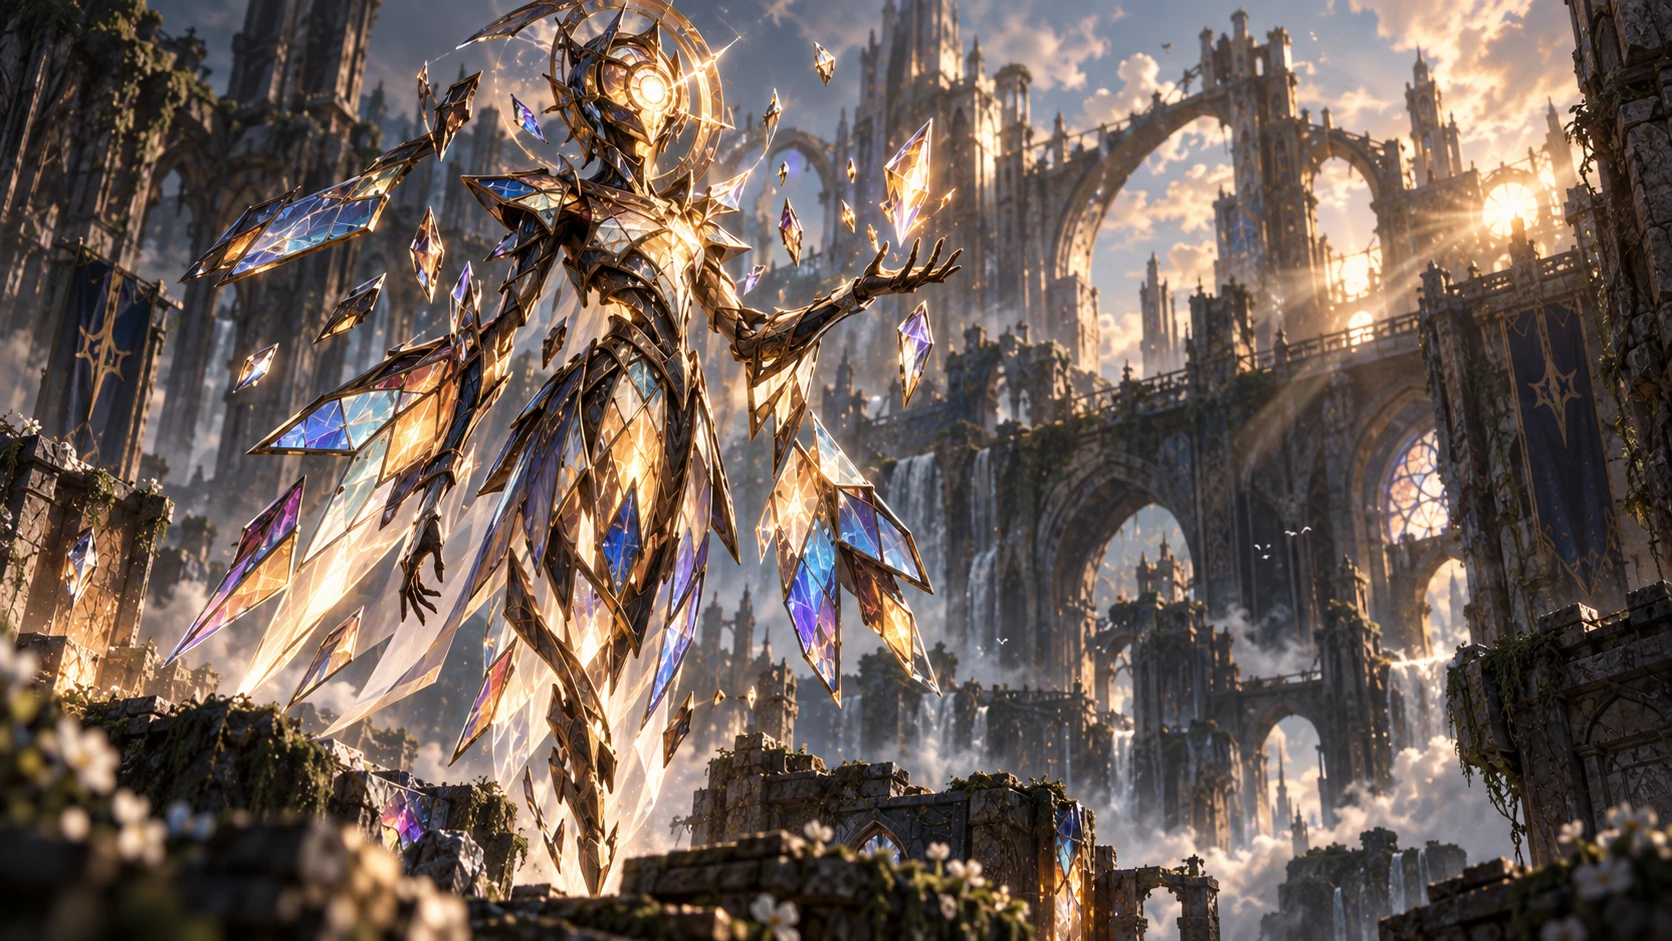
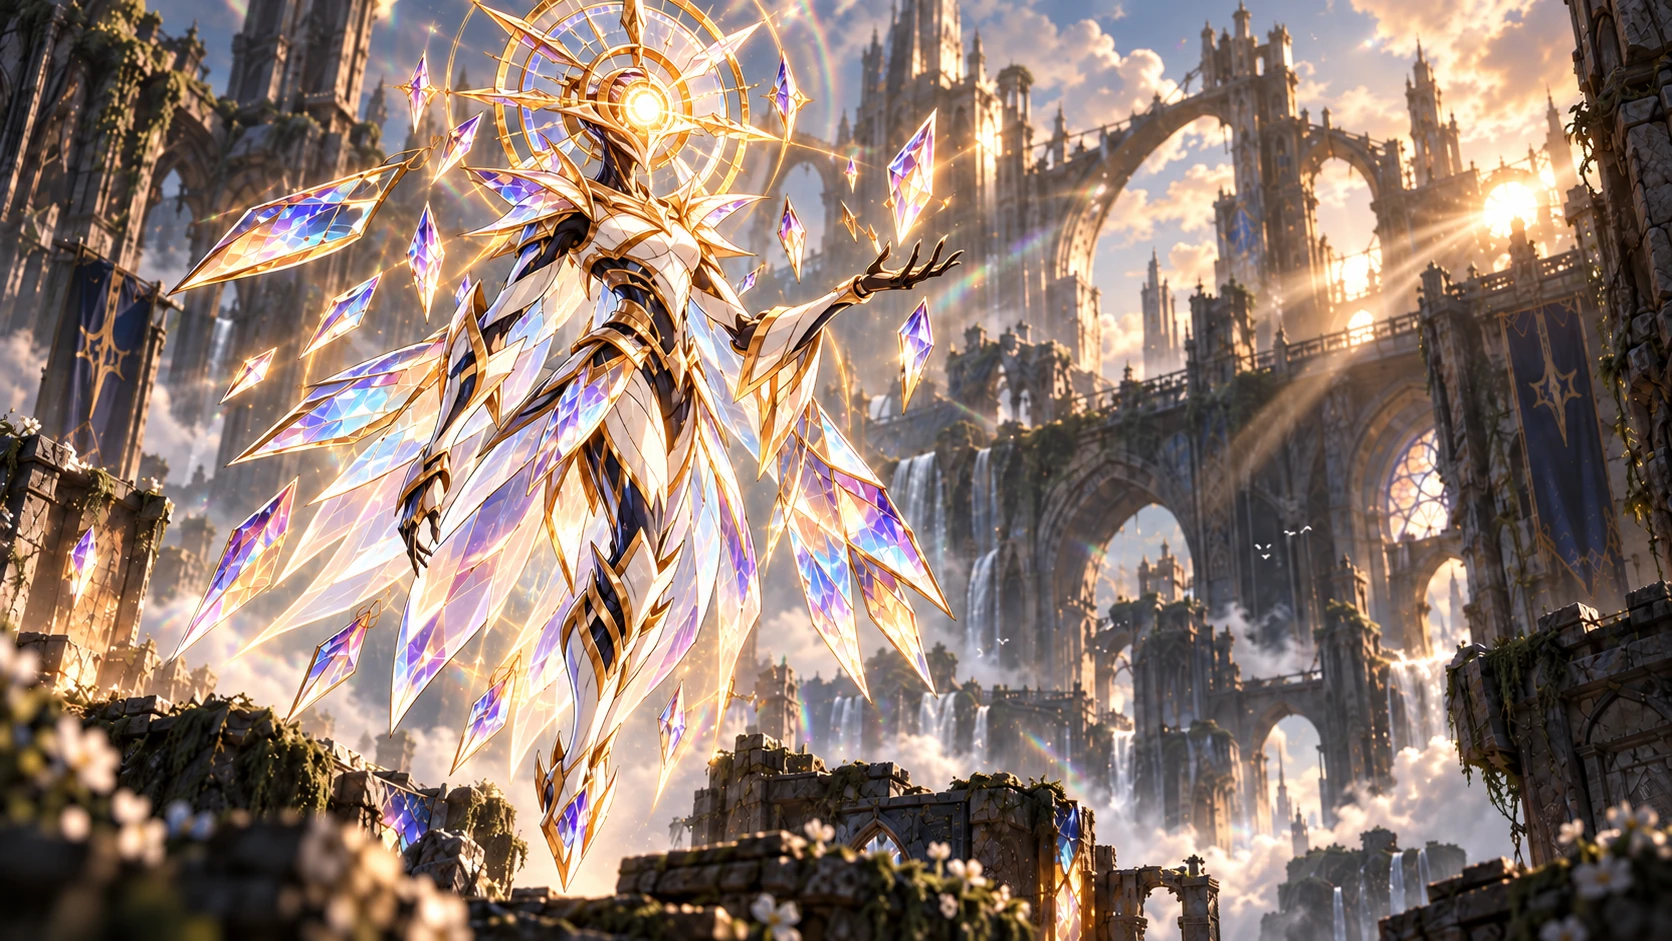
Angeru and Oriel take their new splash art (M59)
The author supplied new splash art for both: the same designs drawn
cleaner. Angeru's model already matches his, so only his hero changes.
Oriel's glass in the new art is mostly pearl-pale touched with lavender
and blue, with amber only on the panes lit about her core. Her panes'
colour weights follow it, and her kit's pale jewel whitens.

diff --git a/Game/Scripts/VanguardBodies/models/oriel.py b/Game/Scripts/VanguardBodies/models/oriel.py
@@ -34,11 +34,12 @@ DEPTH = 0.62
 # forward and to the left (cm).
 RINGS = ((0.17, 0.30, 0.6, 0.0), (0.55, 0.35, 0.9, 0.0), (0.97, 0.47, 1.2, 0.0), (1.5, 0.62, 0.6, -0.6), (1.82, 0.5, -0.6, 0.0),
          (1.87, 0.15, -0.6, 0.0))
-# Pane colours by where they lie: a jewel's name and its weight.
-BODICE = {"amber": 3, "blue": 2, "violet": 2, "pale": 1, "cyan": 1, "rose": 0.5}
-WING = {"blue": 3, "violet": 3, "amber": 3, "pale": 2, "cyan": 1, "rose": 1}
-SKIRT = {"blue": 3, "violet": 3, "amber": 2, "pale": 1, "rose": 1}
-LIMB = {"amber": 2, "blue": 2, "violet": 2, "pale": 1}
+# Pane colours by where they lie: a jewel's name and its weight. Her art is mostly pearl-pale glass touched with
+# lavender and blue, its amber kept to the panes lit about her core.
+BODICE = {"pale": 5, "violet": 1.5, "blue": 1, "cyan": 0.5}
+WING = {"pale": 4, "violet": 2, "blue": 1.5, "cyan": 1, "rose": 0.5}
+SKIRT = {"pale": 4, "violet": 2, "blue": 1, "rose": 0.5}
+LIMB = {"pale": 3, "violet": 1}
 
 
 def build(S, L, dims, spec):
@@ -366,7 +367,7 @@ def head(g, L, dims, p):
     gem, faces = g.solid("gem", faces, "lead", "head", protect=0.8)
     nodes = [gem]
     for k, (face, normal) in enumerate(faces):
-        g.laid(face, normal, g.pick({"blue": 2, "violet": 2, "pale": 2, "amber": 1}), "head", inset=0.6, lift=0.35)
+        g.laid(face, normal, g.pick({"pale": 3, "violet": 1, "blue": 1}), "head", inset=0.6, lift=0.35)
     # The core at its face, in a gold frame.
     front = rx * math.cos(math.radians(30))
     nodes.append(g.ball("core", (front - 1.2, 0, middle), hd * 0.25, "core", "head", protect=1.0))
@@ -378,7 +379,7 @@ def head(g, L, dims, p):
     # at the top and longer on her right; five panes facing forward, so from before they read as a crown, never as horns.
     back = V(-math.sin(math.radians(22)), 0, math.cos(math.radians(22)))
     facing = unit(np.cross(back, V(0, 1, 0)))
-    for k, (angle, length, colour) in enumerate(((0, 0.95, "pale"), (30, 0.7, "violet"), (-32, 0.78, "amber"), (62, 0.5, "blue"), (-64, 0.58, "violet"))):
+    for k, (angle, length, colour) in enumerate(((0, 0.95, "pale"), (30, 0.7, "violet"), (-32, 0.78, "pale"), (62, 0.5, "blue"), (-64, 0.58, "violet"))):
         a = math.radians(angle)
         direction = unit(back * math.cos(a) + V(0, 1, 0) * math.sin(a))
         across = unit(np.cross(facing, direction))

diff --git a/Docs/Design/Veyra_Initial_Roster_Character_Bible_v0.6.md b/Docs/Design/Veyra_Initial_Roster_Character_Bible_v0.6.md
@@ -17,7 +17,7 @@
 **Eudora's prostheses extended from art (2026-09-21):** Canon specified a single **mechanical left-forearm prosthesis**. Her approved art gives her **both arms from the shoulder and both legs below the knee** — four limbs rather than one forearm — so both her Nature and Visual fields are corrected to match. **This is the largest single change the art has made to a character.** It left a lore question the art could not answer — one forearm needs no explanation for an engineer, four limbs implies a specific catastrophe — and the author has ruled that the lore should follow the image. **Resolved 2026-09-21:** a freight tunnel came down on a crew she was leading. The injury now sits *before* Picket in her history, so the machine reads as her answer to it: she had spent a shift under a ceiling with nothing over her, and built mobile cover so the next crew would have something. The night-shift attack stays a separate, later event — that is when the rivet cannon was fitted. No blame is assigned to an employer; her existing hostility to negligent ones does that work already. She remains human: torso, neck and head are flesh. No kit, role, region or roster count changed.  
 **Tavi's cross pupils, twice unmet (2026-09-21):** Her paragraph specifies *"Her pupils are **pink and cross-shaped**"*. Two successive authored heroes have given her round pink pupils instead, while delivering the cross mark emphatically everywhere else. The spec is **kept rather than withdrawn**: the crosses elsewhere show the idea is landing, and a detail a generator declines twice is a production limit rather than a design decision. **If a third image declines it, withdraw it** — canon should not hold a line no image will satisfy, and the mark survives without it. No kit, lore, role, region or roster count changed.  
 **Clean redesign (2026-09-20):** Raska, Kade and Angeru now carry `**Visual language:**` paragraphs, completing appearance coverage for all 25 Vanguards. These three are **new designs built from written canon alone** — role, region, kit, lore and personality — because their earlier sheets were withdrawn for third-party content and reconstructing that look would carry the reason for the withdrawal forward. Nothing was taken from the withdrawn art, and it must not be reintroduced. No kit, lore, role, region or roster count changed.  
-**New splash art (2026-10-07):** The author supplied new splash art for Gorraveth and Aurelisse, and art is canon, so their `**Visual language:**` paragraphs follow it. Gorraveth is the same design drawn cleaner: his mane of black spikes, cream throat and chest, dark horn, bronze-bound harness and pauldrons, dark gauntlets and greaves are now named, and his slag is **molten where it drips and black where it has cooled** rather than black throughout. Aurelisse changes more: she is no longer translucent air narrowing to a cyclone below the waist, but a figure with **periwinkle-blue skin veined with light, a calm face with glowing eyes, long legs and bare feet**, and her chimes are **bells** rather than tubes. Her nature is unchanged — wind and mineral dust that has taken a recognisable form — and so are her kit, lore, role, region and the roster count. New art for Vera, Varkesh and Marek followed the same day: the same designs drawn cleaner, and only Vera's paragraph changes — her side-tail is fuller and tied in a bow, and a long red cloak torn to ribbons now streams over her black coat. Mavra and Korruk followed: Korruk is the same design, his crest drawn sweeping back; Mavra's coat hem is now torn red and black rather than painted with red-and-white hazard striping.
+**New splash art (2026-10-07):** The author supplied new splash art for Gorraveth and Aurelisse, and art is canon, so their `**Visual language:**` paragraphs follow it. Gorraveth is the same design drawn cleaner: his mane of black spikes, cream throat and chest, dark horn, bronze-bound harness and pauldrons, dark gauntlets and greaves are now named, and his slag is **molten where it drips and black where it has cooled** rather than black throughout. Aurelisse changes more: she is no longer translucent air narrowing to a cyclone below the waist, but a figure with **periwinkle-blue skin veined with light, a calm face with glowing eyes, long legs and bare feet**, and her chimes are **bells** rather than tubes. Her nature is unchanged — wind and mineral dust that has taken a recognisable form — and so are her kit, lore, role, region and the roster count. New art for Vera, Varkesh and Marek followed the same day: the same designs drawn cleaner, and only Vera's paragraph changes — her side-tail is fuller and tied in a bow, and a long red cloak torn to ribbons now streams over her black coat. Mavra and Korruk followed: Korruk is the same design, his crest drawn sweeping back; Mavra's coat hem is now torn red and black rather than painted with red-and-white hazard striping. Angeru and Oriel followed too, the same designs drawn cleaner; Oriel's glass is now mostly pearl-pale touched with lavender and blue, its amber kept to the panes lit about her core.
 **Angeru's skill points (2026-09-25):** one point in Q, W or E ranks both stances' abilities in that slot; Q, W and E rank to 6; Forsake the Schools costs no skill point and never ranks (§15). No lore, role or roster count changed.  
 **Current roster target:** 25 Vanguards (and growing as new designs are added)  
 **Status:** Working character canon for the planned first-playable roster. All 25 Vanguards below belong to this design target; the number designed is not the number implemented/released.
